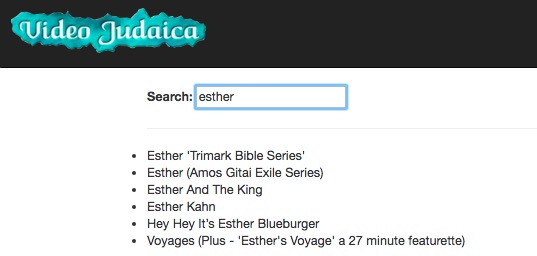
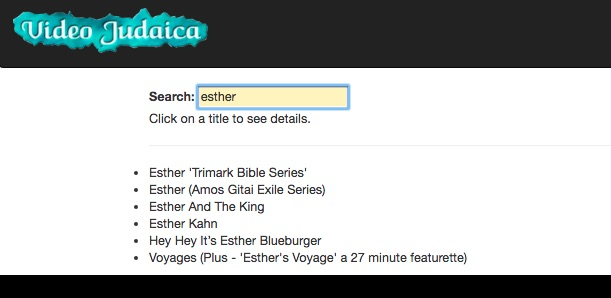
update README

Changed region(s): [[0.0, 0.5625, 1.0, 1.0], [0.0, 0.0312, 1.0, 0.4375]]

diff --git a/README.md b/README.md
@@ -5,6 +5,7 @@
 ## Description
 Website for the nonprofit Sylvia Suckerman Jewish Media Collection, aka Video Judaica. Searchable title list with ability to request rentals and apply for membership. Admin dashboard for the manager to add, update, and delete items from the database.
 
+
 ## Specifications
 
 ### User Stories
@@ -26,6 +27,7 @@ Website for the nonprofit Sylvia Suckerman Jewish Media Collection, aka Video Ju
 3. Transition to relational database.
 4. Implement online payment using Square.
 
+
 ## Design
 
 ### Website
@@ -34,6 +36,7 @@ Website for the nonprofit Sylvia Suckerman Jewish Media Collection, aka Video Ju
 ![About Us screenshot](src/images/vj-aboutus.jpg "Screenshot of the About Us page")
 
 ![Title List Search screenshot](src/images/vj-titlesearch.jpg "Screenshot of the title list with a search for 'esther'")
+(Input fields turn yellow when active.)
 
 ![Item Detail Display screenshot](src/images/vj-itemdetail.jpg "Screenshot of the item detail page")
 
@@ -41,6 +44,7 @@ Website for the nonprofit Sylvia Suckerman Jewish Media Collection, aka Video Ju
 ![Admin Add Item Form screenshot](src/images/vjadmin-additem.jpg "Screenshot of the admin's add item form")
 
 ![Admin Edit Item Form screenshot](src/images/vjadmin-updateitem.jpg "Screenshot of the admin's title list with edit form")
+(Buttons change to red when cursor hovers over it.)
 
 
 ## Setup/Installation Requirements
@@ -49,6 +53,8 @@ Website for the nonprofit Sylvia Suckerman Jewish Media Collection, aka Video Ju
 * Run bower install and bower install bootstrap --save
 * Create a Firebase account. In the app folder, create api-keys.ts.
 
+### Known Bugs
+The keyword search occasionally returns titles that have the letters entered but not in the correct order, i.e. a search for "Kahn" with also return items with "Chanukah" in the title.
 
 ### Technologies Used
 This project was generated with [Angular CLI](https://github.com/angular/angular-cli). Data hosted in Firebase. Images and logo provided by client.
